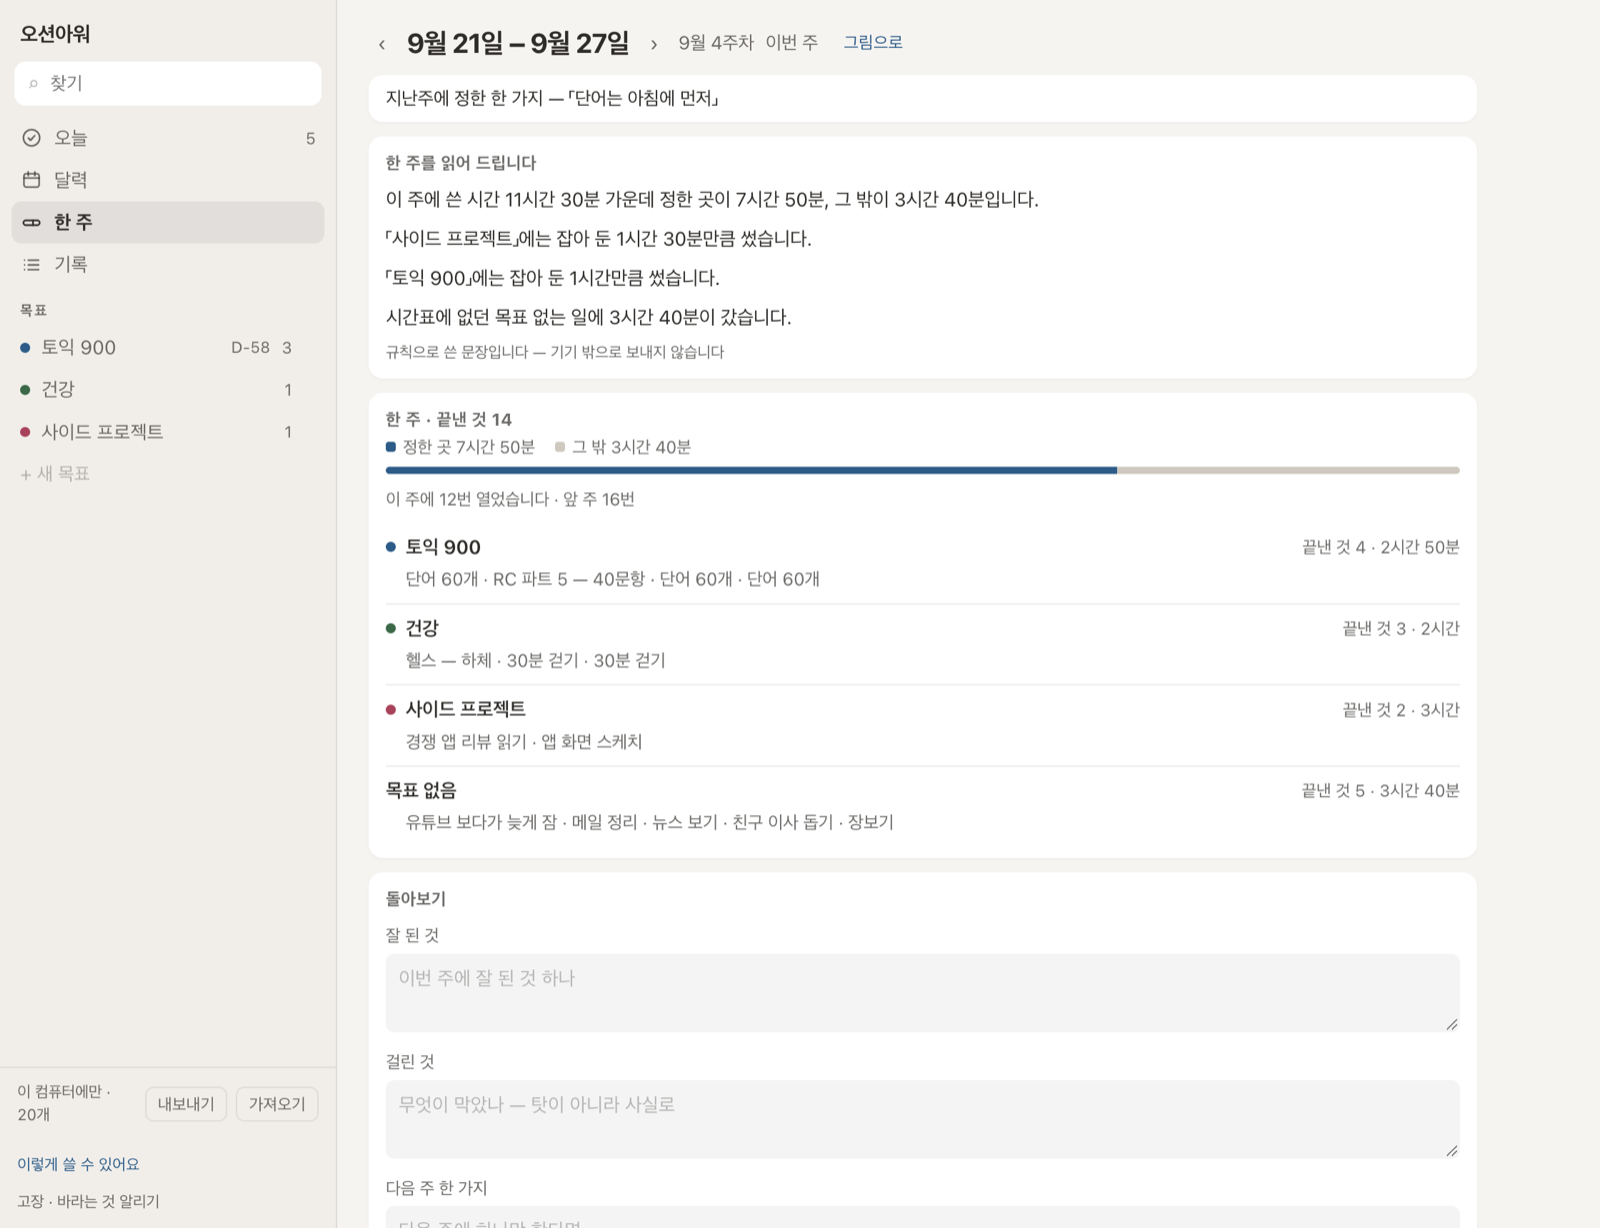
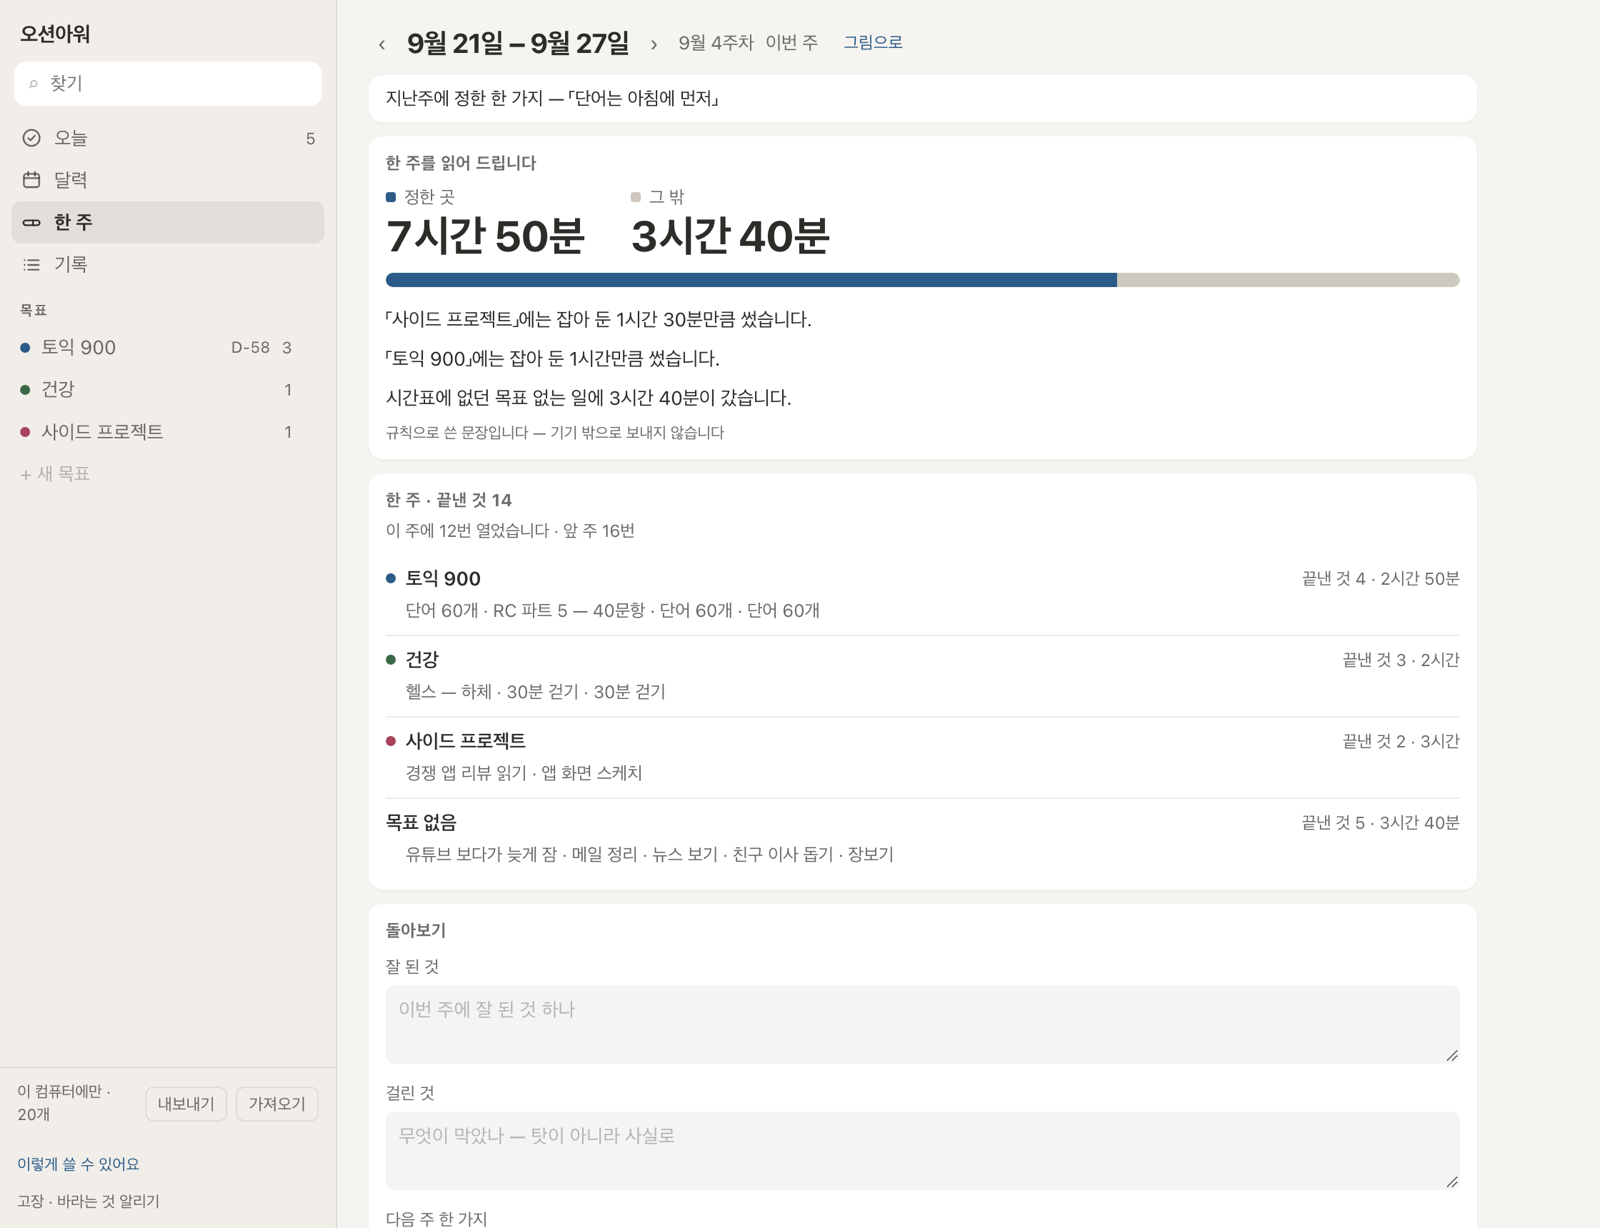
채점 1판 — 한 주의 주인공 · 폰 입력칸 예시 · 틀 취업 준비 · 이번 학기

diff --git a/index.html b/index.html
@@ -123,7 +123,7 @@ footer a{color:var(--d70)}
 </div>
 
 <figure class="shot">
-  <img src="shot-week.png" width="1600" height="1228" alt="오션아워 한 주 화면. 정한 곳 7시간 50분, 그 밖 3시간 40분이 막대 하나로 보이고, 목표별로 끝낸 일과 쓴 시간이 적혀 있다">
+  <img src="shot-week.png" width="1600" height="1228" alt="오션아워 한 주 화면. 정한 곳 7시간 50분, 그 밖 3시간 40분이 큰 숫자와 막대 하나로 맨 위에 보이고, 목표별로 끝낸 일과 쓴 시간이 적혀 있다">
   <figcaption>실제 앱 화면입니다. 할 일과 시간은 예시로 넣었습니다.</figcaption>
 </figure>
 
@@ -132,8 +132,8 @@ footer a{color:var(--d70)}
   <h2>폰에서 이렇게 씁니다</h2>
   <div class="cards">
     <figure class="pcard"><h3>열면 바로 적는다</h3><img src="today-phone.png" width="600" height="1200" alt="폰 오늘 화면 — 목표별 할 일, ▶, 오늘 쓴 시간" loading="lazy"><figcaption>「내일 치과 3시」처럼 적으면 날짜 · 시각까지 알아듣습니다</figcaption></figure>
-    <figure class="pcard"><h3>한 주가 둘로 나뉜다</h3><img src="week-phone.png" width="600" height="1200" alt="폰 한 주 화면 — 정한 곳과 그 밖이 막대 하나로" loading="lazy"><figcaption>정한 곳 / 그 밖 — 점수 없이 막대 하나로</figcaption></figure>
-    <figure class="pcard"><h3>틀 하나로 바로 시작</h3><img src="start-phone.png" width="600" height="1200" alt="폰 처음 화면 — 예시 막대와 틀로 바로 시작" loading="lazy"><figcaption>시험 준비 · 갓생 아침 — 목표와 루틴이 한 번에 들어옵니다</figcaption></figure>
+    <figure class="pcard"><h3>한 주가 둘로 나뉜다</h3><img src="week-phone.png" width="600" height="1200" alt="폰 한 주 화면 — 정한 곳과 그 밖이 큰 숫자와 막대 하나로" loading="lazy"><figcaption>정한 곳 / 그 밖 — 점수 없이 쓴 시간과 막대 하나로</figcaption></figure>
+    <figure class="pcard"><h3>틀 하나로 바로 시작</h3><img src="start-phone.png" width="600" height="1200" alt="폰 처음 화면 — 예시 막대와 틀로 바로 시작(시험 준비 · 취업 준비 · 이번 학기)" loading="lazy"><figcaption>시험 준비 · 취업 준비 · 이번 학기 — 목표와 루틴이 한 번에 들어옵니다</figcaption></figure>
   </div>
   <p class="note">실제 앱 화면입니다. 할 일은 예시로 넣었습니다.</p>
 </section>
